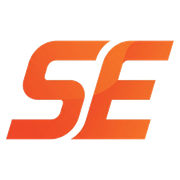
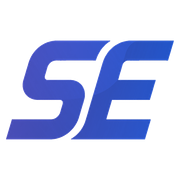
changed the theme

Changed region(s): [[0.0278, 0.2222, 0.9722, 0.7778]]

diff --git a/src/app/globals.css b/src/app/globals.css
@@ -1,20 +1,20 @@
 @import "tailwindcss";
 
 :root {
-  --ink: #12161c;
-  --paper: #edeff2;
-  --paper-alt: #f6f7f9;
-  --surface-dark: #10151c;
-  --surface-dark-alt: #181f29;
-  --text-inverse: #f5f6f8;
-  --muted: #5b6472;
-  --muted-inverse: #9aa3af;
-  --signal: #ff5b2e;
-  --signal-dim: rgba(255, 91, 46, 0.13);
-  --teal: #1fae8e;
-  --teal-dim: rgba(31, 174, 142, 0.12);
-  --border: rgba(18, 22, 28, 0.1);
-  --border-inverse: rgba(255, 255, 255, 0.12);
+  --ink: #0a0e1a;
+  --paper: #edf2f9;
+  --paper-alt: #f6f8fc;
+  --surface-dark: #080c18;
+  --surface-dark-alt: #0f172e;
+  --text-inverse: #f8fafc;
+  --muted: #57657e;
+  --muted-inverse: #94a3b8;
+  --signal: #4f46e5;
+  --signal-dim: rgba(79, 70, 229, 0.12);
+  --teal: #06b6d4;
+  --teal-dim: rgba(6, 182, 212, 0.12);
+  --border: rgba(15, 23, 42, 0.08);
+  --border-inverse: rgba(255, 255, 255, 0.1);
   --max: 1180px;
 }
 
@@ -58,7 +58,7 @@ ul {
 }
 
 .font-display {
-  font-family: var(--font-space-grotesk), sans-serif;
+  font-family: var(--font-outfit), var(--font-space-grotesk), sans-serif;
 }
 
 .font-mono-custom {
@@ -96,9 +96,9 @@ h1,
 h2,
 h3,
 h4 {
-  font-family: var(--font-space-grotesk), sans-serif;
-  letter-spacing: -0.02em;
-  line-height: 1.08;
+  font-family: var(--font-outfit), var(--font-space-grotesk), sans-serif;
+  letter-spacing: -0.025em;
+  line-height: 1.12;
 }
 
 h2 {
@@ -154,8 +154,8 @@ h2 {
 }
 
 .btn-signal:hover {
-  background: #e64e24;
-  box-shadow: 0 8px 20px rgba(255, 91, 46, 0.25);
+  background: #4338ca;
+  box-shadow: 0 8px 24px rgba(79, 70, 229, 0.35);
 }
 
 .btn-outline-dark {
@@ -178,20 +178,20 @@ h2 {
 }
 
 .btn-hero-primary {
-  background: #f8b83d;
-  color: #10151c;
+  background: linear-gradient(135deg, #4f46e5 0%, #2563eb 100%);
+  color: #ffffff;
   font-weight: 700;
   padding: 14px 28px;
   font-size: 1rem;
   border-radius: 8px;
-  border: 1px solid #f8b83d;
-  box-shadow: 0 10px 25px rgba(248, 184, 61, 0.3);
+  border: 1px solid rgba(255, 255, 255, 0.2);
+  box-shadow: 0 10px 25px rgba(79, 70, 229, 0.35);
 }
 
 .btn-hero-primary:hover {
-  background: #f3ad29;
+  background: linear-gradient(135deg, #6366f1 0%, #3b82f6 100%);
   transform: translateY(-2px);
-  box-shadow: 0 14px 30px rgba(248, 184, 61, 0.45);
+  box-shadow: 0 14px 30px rgba(79, 70, 229, 0.45);
 }
 
 /* ---------- Header & Nav ---------- */
@@ -216,7 +216,7 @@ header.nav {
 .logo {
   display: inline-flex;
   align-items: center;
-  font-family: var(--font-space-grotesk), sans-serif;
+  font-family: var(--font-outfit), sans-serif;
   font-weight: 800;
   font-size: 1.15rem;
   letter-spacing: -0.02em;
@@ -316,7 +316,7 @@ header.nav {
 }
 
 .mobile-panel a {
-  font-family: var(--font-space-grotesk), sans-serif;
+  font-family: var(--font-outfit), sans-serif;
   font-size: 1.5rem;
   padding: 16px 0;
   border-bottom: 1px solid var(--border-inverse);
@@ -373,7 +373,7 @@ header.nav {
   display: inline-flex;
   align-items: center;
   gap: 10px;
-  font-family: var(--font-space-grotesk), sans-serif;
+  font-family: var(--font-outfit), sans-serif;
   font-weight: 800;
   font-size: 1.15rem;
   letter-spacing: 0.08em;
@@ -475,7 +475,7 @@ header.nav {
 
 .hero-strip strong {
   display: block;
-  font-family: var(--font-space-grotesk), sans-serif;
+  font-family: var(--font-outfit), sans-serif;
   font-size: 1.3rem;
   color: var(--text-inverse);
   font-weight: 700;
@@ -500,15 +500,15 @@ header.nav {
 }
 
 .hero-card-green {
-  background: var(--teal);
+  background: linear-gradient(135deg, #06b6d4 0%, #0ea5e9 100%);
   transform: rotate(-14deg) translate(-20px, 25px);
-  box-shadow: 0 20px 45px rgba(31, 174, 142, 0.28);
+  box-shadow: 0 20px 45px rgba(6, 182, 212, 0.35);
 }
 
 .hero-card-yellow {
-  background: #f8b83d;
+  background: linear-gradient(135deg, #6366f1 0%, #4f46e5 100%);
   transform: rotate(10deg) translate(15px, -15px);
-  box-shadow: 0 25px 50px rgba(248, 184, 61, 0.32);
+  box-shadow: 0 25px 50px rgba(99, 102, 241, 0.35);
   overflow: hidden;
 }
 
@@ -713,7 +713,7 @@ header.nav {
 }
 
 .stat-num {
-  font-family: var(--font-space-grotesk), sans-serif;
+  font-family: var(--font-outfit), sans-serif;
   font-size: 2.6rem;
   font-weight: 800;
   color: var(--signal);
@@ -755,7 +755,7 @@ header.nav {
 
 .branch-card:hover {
   transform: translateY(-4px);
-  border-color: rgba(255, 91, 46, 0.4);
+  border-color: rgba(79, 70, 229, 0.45);
 }
 
 .branch-code {
@@ -906,15 +906,15 @@ textarea {
 }
 
 .form-msg.ok {
-  background: rgba(31, 174, 142, 0.12);
-  color: #127a63;
-  border: 1px solid rgba(31, 174, 142, 0.3);
+  background: var(--teal-dim);
+  color: #0891b2;
+  border: 1px solid rgba(6, 182, 212, 0.3);
 }
 
 .form-msg.err {
-  background: var(--signal-dim);
-  color: #c23e14;
-  border: 1px solid rgba(255, 91, 46, 0.3);
+  background: rgba(239, 68, 68, 0.12);
+  color: #dc2626;
+  border: 1px solid rgba(239, 68, 68, 0.3);
 }
 
 .submit-btn {

diff --git a/src/app/page.tsx b/src/app/page.tsx
@@ -91,14 +91,14 @@ export default function HomePage() {
                 >
                   <path
                     d="M8 26 C 28 8, 55 46, 80 20 C 95 6, 110 25, 122 18"
-                    stroke="#1FAE8E"
+                    stroke="#06B6D4"
                     strokeWidth="2.5"
                     strokeLinecap="round"
                     fill="none"
                   />
                   <path
                     d="M106 14 L 123 18 L 114 31"
-                    stroke="#1FAE8E"
+                    stroke="#06B6D4"
                     strokeWidth="2.5"
                     strokeLinecap="round"
                     strokeLinejoin="round"
@@ -110,7 +110,7 @@ export default function HomePage() {
                     rx="16"
                     ry="10"
                     transform="rotate(-15 42 30)"
-                    stroke="#1FAE8E"
+                    stroke="#06B6D4"
                     strokeWidth="1.8"
                     strokeDasharray="2 4"
                     fill="none"
@@ -182,7 +182,7 @@ export default function HomePage() {
             </div>
             {/* Hero Character / Portrait */}
             <Image
-              src="/hero-woman.png"
+              src="/hero-executive.png"
               alt="Digital Marketing Growth Partner"
               width={380}
               height={460}

diff --git a/src/app/layout.tsx b/src/app/layout.tsx
@@ -1,15 +1,15 @@
 import type { Metadata } from "next";
-import { Space_Grotesk, Inter, JetBrains_Mono } from "next/font/google";
+import { Outfit, Inter, JetBrains_Mono } from "next/font/google";
 import Navbar from "@/components/Navbar";
 import Footer from "@/components/Footer";
 import ScrollReveal from "@/components/ScrollReveal";
 import { siteConfig } from "@/lib/config";
 import "./globals.css";
 
-const spaceGrotesk = Space_Grotesk({
-  variable: "--font-space-grotesk",
+const outfit = Outfit({
+  variable: "--font-outfit",
   subsets: ["latin"],
-  weight: ["500", "700"],
+  weight: ["500", "600", "700", "800"],
 });
 
 const inter = Inter({
@@ -56,7 +56,7 @@ export default function RootLayout({
   return (
     <html
       lang="en"
-      className={`${spaceGrotesk.variable} ${inter.variable} ${jetbrainsMono.variable}`}
+      className={`${outfit.variable} ${inter.variable} ${jetbrainsMono.variable}`}
     >
       <body>
         <Navbar />

diff --git a/src/lib/config.ts b/src/lib/config.ts
@@ -11,7 +11,7 @@ export const siteConfig = {
   tagline: "Pan-India Digital Marketing & Growth Partner",
   description:
     "Full-service digital marketing agency with on-ground teams in Delhi, Mumbai and Chandigarh. SEO, Paid Media, Social, Web & Branding.",
-  logo: "/logo.png",
+  logo: "/logo-sanghai.png",
   favicon: "/icon.png",
   whatsappNumber: "917738137483",
   email: "info@sanghaienterprises.com",
